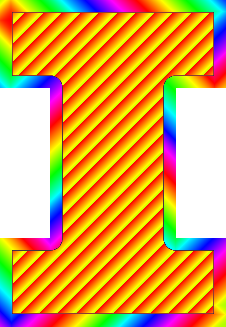
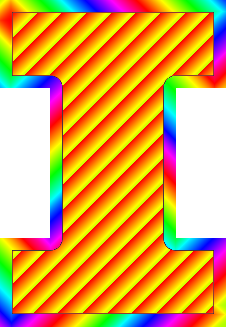
Update part 3

diff --git a/mp_traversals/main.cpp b/mp_traversals/main.cpp
@@ -25,13 +25,12 @@ int main() {
   PNG png;
   png.readFromFile("i.png");
   FloodFilledImage image(png);
+  MyColorPicker color;
+  RainbowColorPicker rainbow(0.1);
   BFS bfs(png, Point(10, 20), 0.1);
   DFS dfs(png, Point(20, 310), 0.2);
-  MyColorPicker mycolor;
-  RainbowColorPicker rainbow(0.1);
   
-  
-  image.addFloodFill(dfs, mycolor);
+  image.addFloodFill(dfs, color);
   image.addFloodFill(bfs, rainbow);
   Animation animation = image.animate(1000);
   

diff --git a/mp_traversals/colorPicker/MyColorPicker.cpp b/mp_traversals/colorPicker/MyColorPicker.cpp
@@ -13,8 +13,7 @@ using namespace cs225;
  */
 HSLAPixel MyColorPicker::getColor(unsigned x, unsigned y) {
   /* @todo [Part 3] */
-  
-  int num = (x*4 + y*4);
+  int num = (x * 3 + y * 3);
   unsigned color = num % 74;
   HSLAPixel p(color, 1, 0.5);
   return p;
